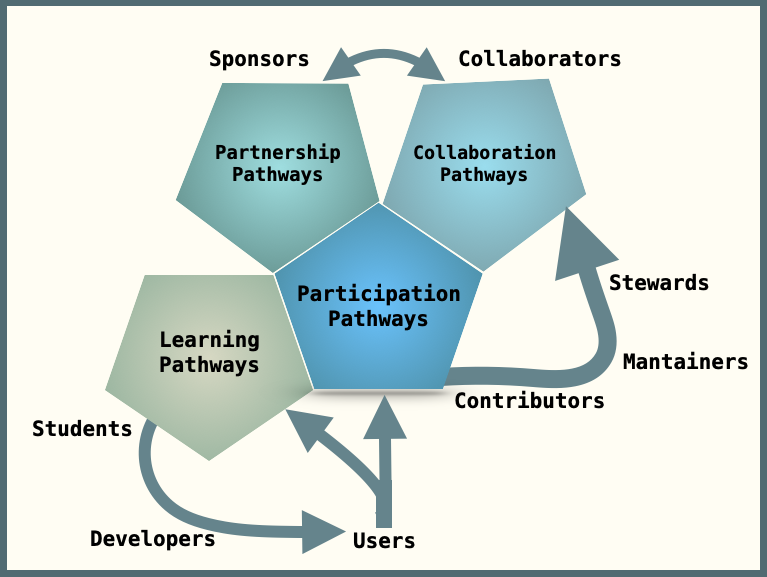
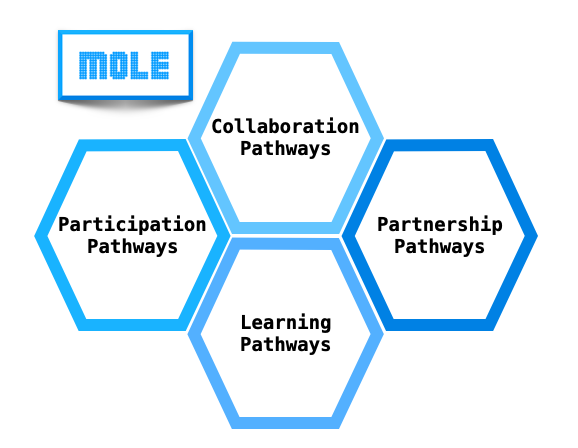
New figures and text
updated figures in index.html and Pathways.html.  Also changed the text.

diff --git a/index.html b/index.html
@@ -64,19 +64,30 @@
   <div class="pathways-intro">
     <div class="pathways-image">
       <p class="section-title">MOLE OSE Pathways</p>
-      <img src="Images/MOLE_Pathways_icon.png" alt="MOLE OSE Pathways" width="30%";"/>
+      <img src="Images/MOLE_Pathways.png" alt="MOLE OSE Pathways" width="30%";"/>
     </div>
     <div class="pathways-text">
       <h3>Four ways to engage with MOLE</h3>
-      <p>
-        MOLE OSE Pathways guide you from your first steps with high-order
-        mimetic operators to becoming an active member of the community.
+      <p><strong>MOLE OSE Pathways </strong>
+       build sustainable growth for the MOLE library
+      ecosystem by supporting user-tailored engagement 
+      pathways that maximize adoption, collaboration, 
+      and active participation.
       </p>
-      <p><strong>Learning Pathways:</strong> for students and developers learning to use the MOLE library.</p>
-      <p><strong>Participation Pathways:</strong> for users who become contributors, maintainers, and stewards.</p>
-      <p><strong>Collaboration Pathways:</strong> for collaborators working with the MOLE OSE.</p>
-      <p><strong>Partnership Pathways:</strong> for sponsors supporting the MOLE OSE.</p>
-      <a class="btn-primary" href="Pathways/pathways.html">Explore The MOLEPathways</a>
+      <p><strong>Learning Pathways:</strong> Providing multi-level learning 
+        pathways for knowledge acquisition about Mimetic Differences methods,
+        and the MOLE library.</p>
+      <p><strong>Participation Pathways:</strong> Mentoring users into
+         contributors and contributors into ecosystem leaders 
+         (maintainers and stewards).</p>
+      <p><strong>Collaboration Pathways:</strong> Sustaining the ecosystem 
+        through strategic alliances and interoperability with other 
+        scientific computing ecosystems.</p>
+      <p><strong>Partnership Pathways:</strong> Empowering innovation
+         through reliable PDE solutions to today's computational 
+         challenges in industry and academia, and providing a tiered 
+         membership services.</p>
+      <a class="btn-primary" href="Pathways/pathways.html">Explore The MOLE Pathways</a>
     </div>
   </div>
 </section>

diff --git a/Pathways/pathways.html b/Pathways/pathways.html
@@ -61,7 +61,7 @@
                 The MOLE pathways help users move from learning the basics
                 of the library to contributing to the MOLE open-source community.
             </p> -->
-            <img src="../Images/MOLE_Pathways.png" alt="MOLE OSE Pathways" width="100%";"/>
+            <img src="../Images/MOLE_Pathways_icon.png" alt="MOLE OSE Pathways" width="75%";"/><br>
             <a
                 class="github-login-button"
                 href="https://online-heath-talent-knowledgestorm.trycloudflare.com/auth/github">
@@ -69,8 +69,9 @@
             </a>
 
             <p class="login-note">
-                GitHub authentication will allow us to connect your learning
-                progress with your GitHub account.
+                GitHub authentication will allow the MOLE OSE to track 
+                your personalized learning pathways, participation in 
+                the OSE, feedback, and user support.
             </p>
         </section>
 
